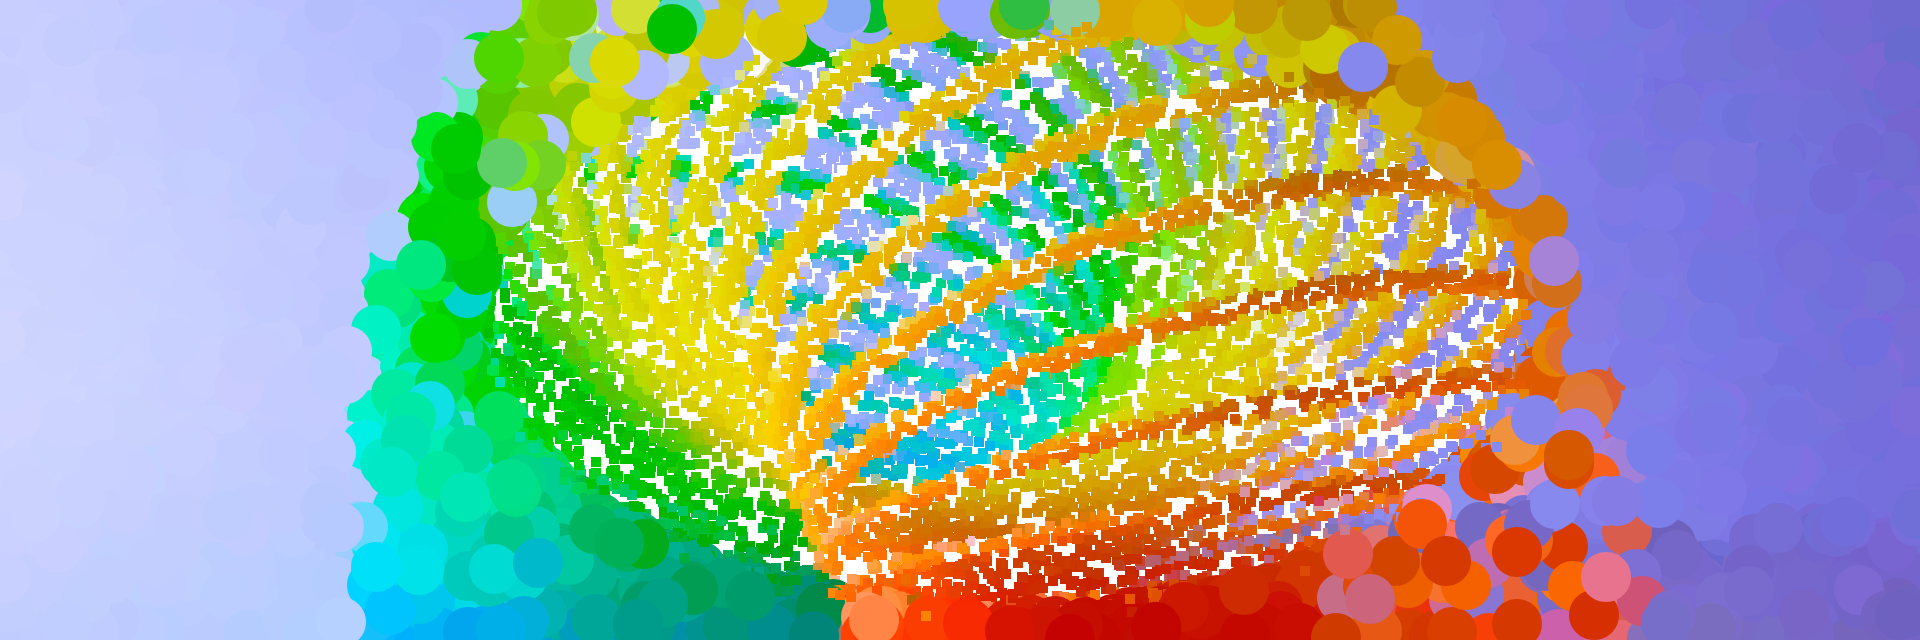
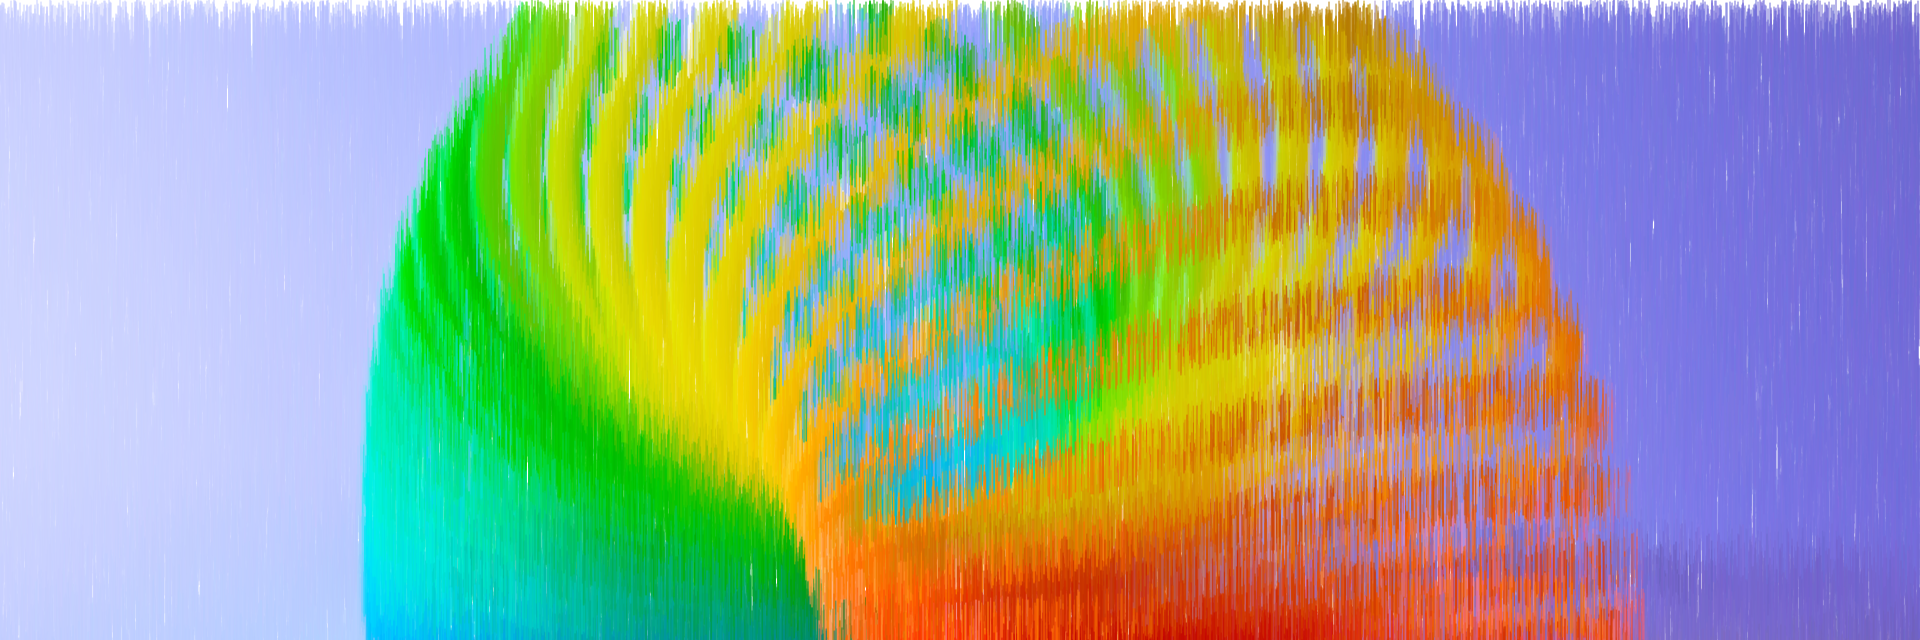
Used Rain Effect on Slinky

diff --git a/sketch.js b/sketch.js
@@ -17,34 +17,42 @@ function setup () {
   main_canvas.parent('canvasContainer');
 
   imageMode(CENTER);
-  noStroke();
+  //noStroke();
   background(255);
   sourceImg.loadPixels();
   maskImg.loadPixels();
 }
 
 function draw () {
-  for(let i=0;i<2000;i++) {
+  for(let i=0;i<10000;i++) {
     let x = floor(random(sourceImg.width));
     let y = floor(random(sourceImg.height));
     let pix = sourceImg.get(x, y);
     let mask = maskImg.get(x, y);
     fill(pix);
-    if(mask[0] > 128) {
-      let pointSize = 50;
-      ellipse(x, y, pointSize, pointSize);
-    }
-    else {
-      let pointSize = 10;
-      rect(x, y, pointSize, pointSize);
-    }
+    stroke(pix);
+       let pointSize = 50;
+       let dice = random(1,6);
+       if(dice == 6){
+       line(x, y, pointSize+x, y);
+       }
+      else{
+       line(x, y, x, y+pointSize);
+}
+  //    let pointSize = 50;
+  //    ellipse(x, y, pointSize, pointSize);
+  //  }
+  //  else {
+  //    let pointSize = 10;
+  //    rect(x, y, pointSize, pointSize);
+  //  }
   }
   renderCounter = renderCounter + 1;
   if(renderCounter > 10) {
     console.log("Done!")
     noLoop();
     // uncomment this to save the result
-     saveArtworkImage(outputFile);
+    // saveArtworkImage(outputFile);
   }
 }
 
